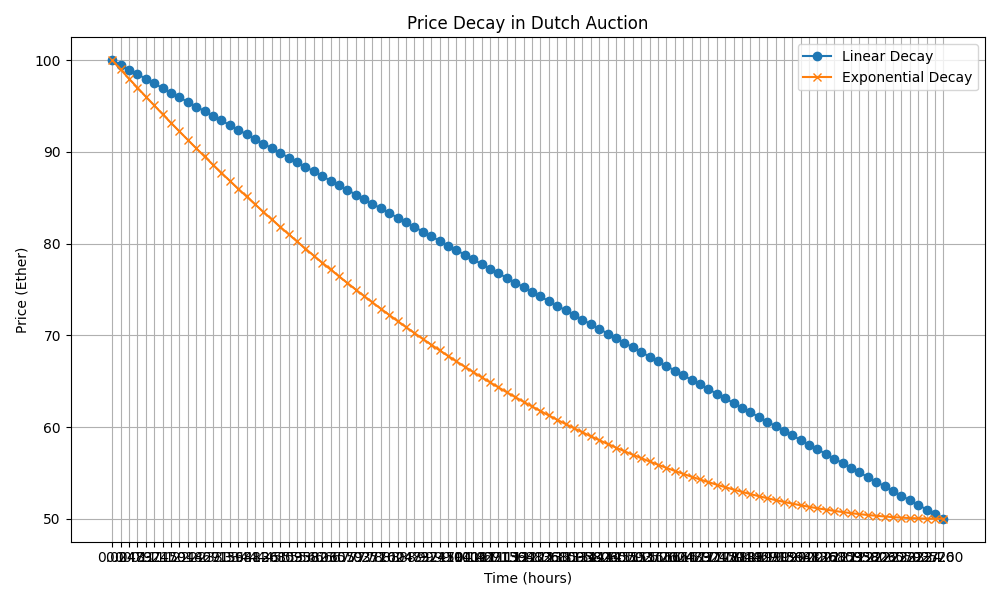
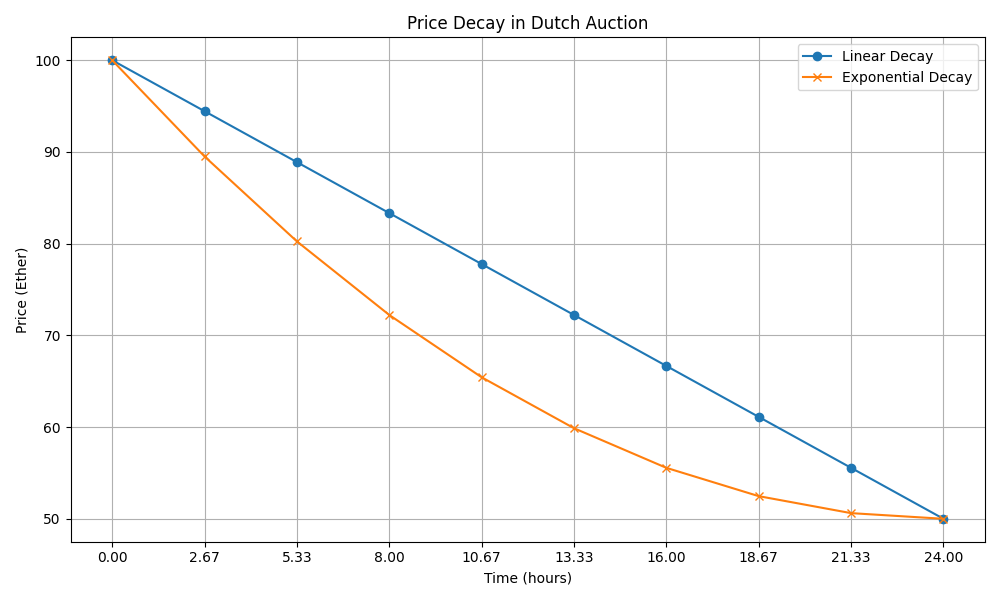
chore: update tests

Changed region(s): [[0.093, 0.06, 0.961, 0.96]]

diff --git a/packages/dutch-auction/utils/generate_price_data.py b/packages/dutch-auction/utils/generate_price_data.py
@@ -64,7 +64,7 @@ def plot_price_decays(price_data):
     print("Plot saved as price_decay_comparison.png")
 
 def main():
-    num_intervals = 100  # Change this to configure the number of intervals
+    num_intervals = 10  # Change this to configure the number of intervals
     price_data = generate_price_data(num_intervals)
     write_price_data_to_json(price_data)
     print(f"Expected prices for {num_intervals} intervals written to expected_prices.json")
